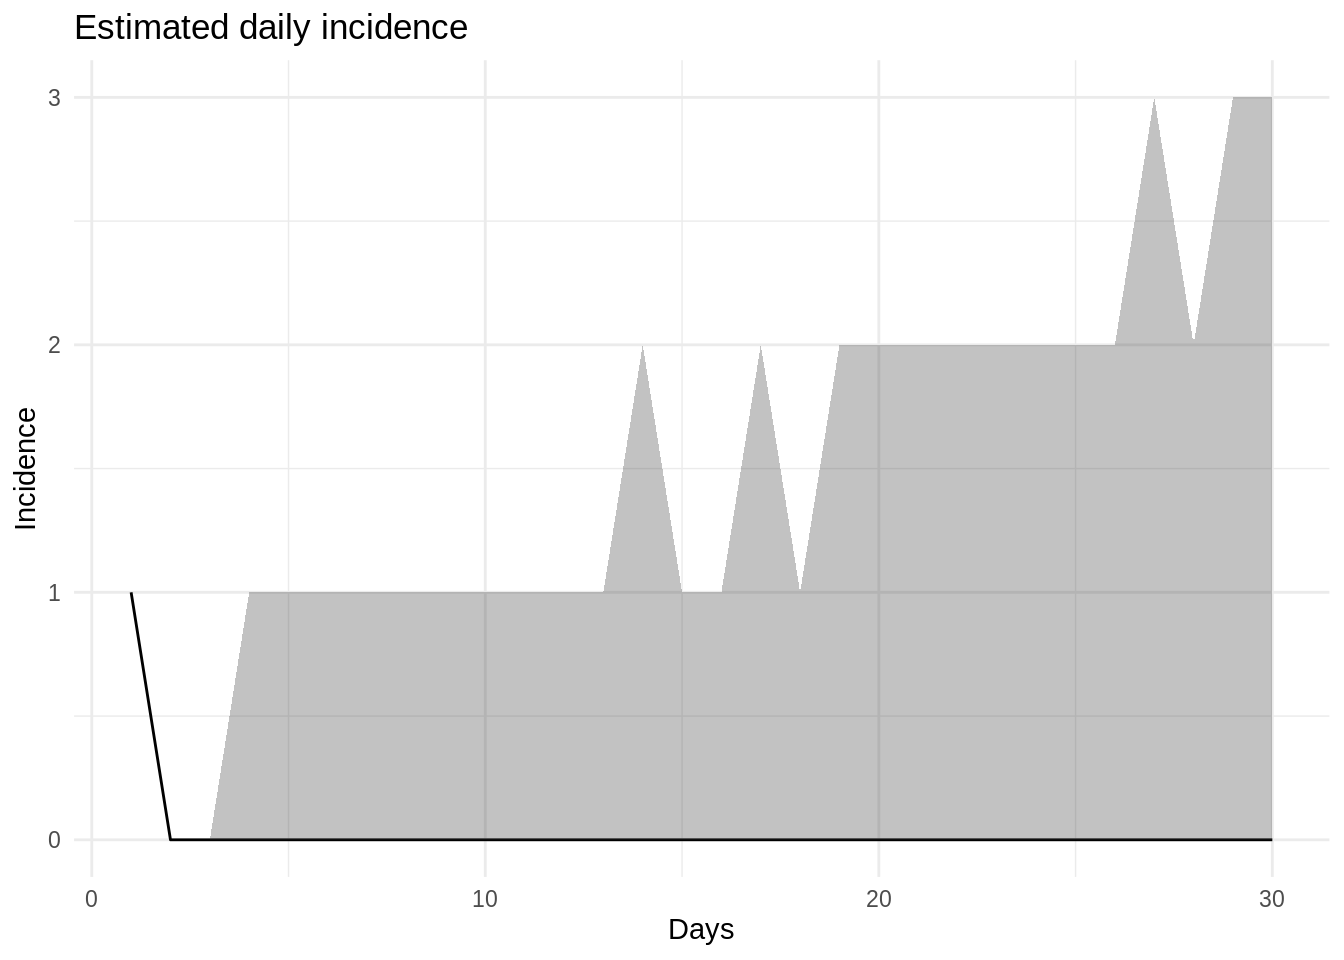
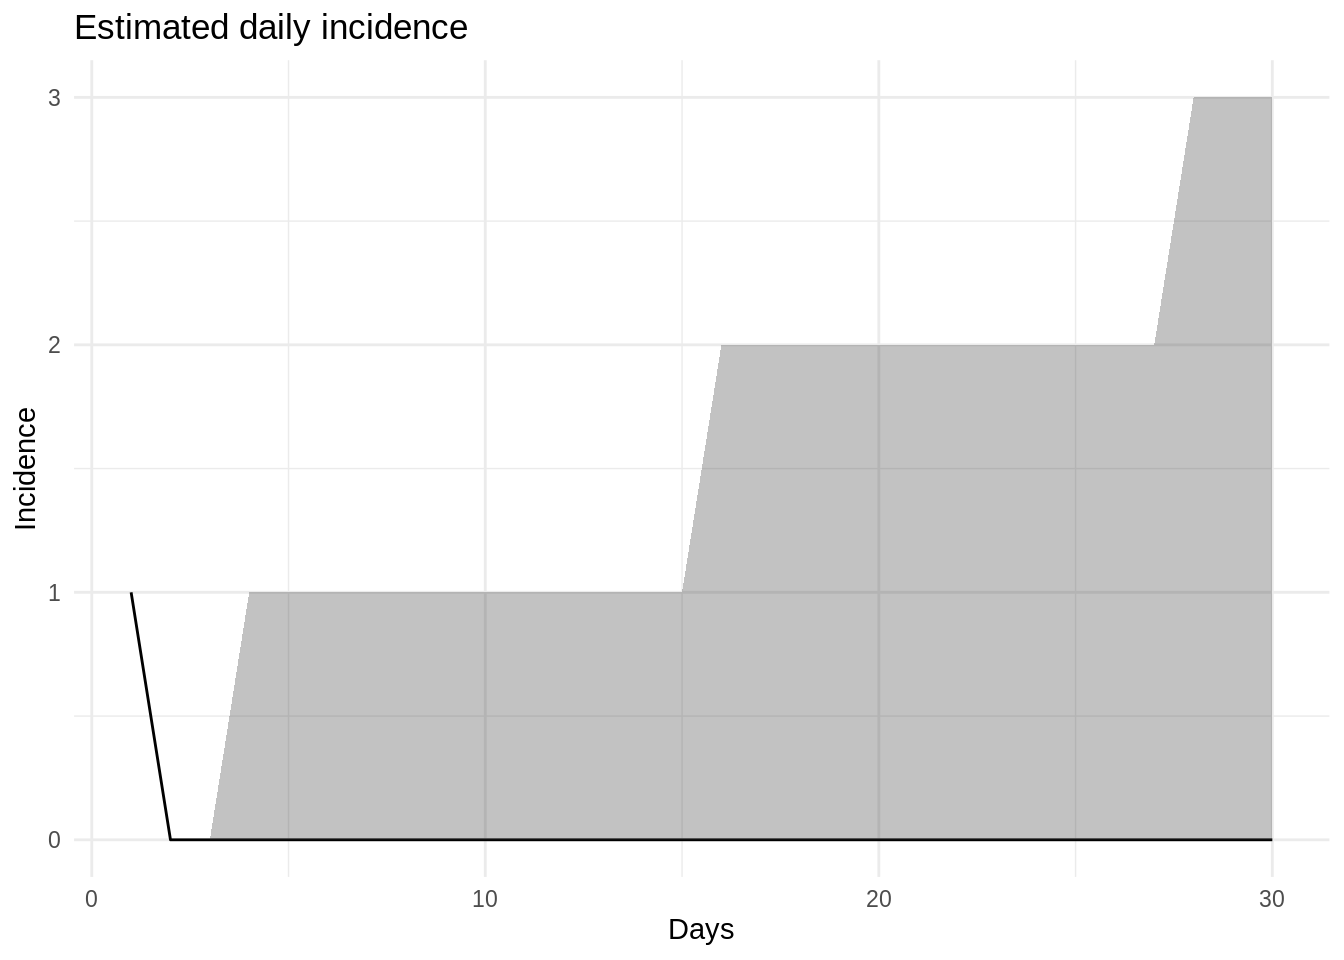
Deploy folkehelseinstituttet/spread to github.com/folkehelseinstituttet/spread.git:gh-pages

Changed region(s): [[0.4375, 0.3438, 0.625, 0.625], [0.8125, 0.0938, 0.9375, 0.375]]

diff --git a/articles/asymmetric_mobility_intro.html b/articles/asymmetric_mobility_intro.html
@@ -104,7 +104,7 @@
 <div class="sourceCode" id="cb1"><pre class="sourceCode r"><code class="sourceCode r"><a class="sourceLine" id="cb1-1" data-line-number="1"><span class="kw"><a href="https://rdrr.io/r/base/library.html">library</a></span>(spread)</a>
 <a class="sourceLine" id="cb1-2" data-line-number="2"><span class="co">#&gt; </span></a>
 <a class="sourceLine" id="cb1-3" data-line-number="3"><span class="co">#&gt; PACKAGE: spread</span></a>
-<a class="sourceLine" id="cb1-4" data-line-number="4"><span class="co">#&gt; Version: 2020.03.16 at 09:32</span></a>
+<a class="sourceLine" id="cb1-4" data-line-number="4"><span class="co">#&gt; Version: 2020.03.16 at 09:54</span></a>
 <a class="sourceLine" id="cb1-5" data-line-number="5"><span class="co">#&gt; </span></a>
 <a class="sourceLine" id="cb1-6" data-line-number="6"><span class="co">#&gt; Commuter model and C++ code developed by Solveig Engebretsen and Andreas Nygård Osnes</span></a>
 <a class="sourceLine" id="cb1-7" data-line-number="7"><span class="co">#&gt; Asymmetric mobility model and C++ code developed by Solveig Engebretsen</span></a>
@@ -153,31 +153,31 @@
 <p><code>c_*</code> variables represent the current status of all the people existing in that geographical location at that time point.</p>
 <div class="sourceCode" id="cb6"><pre class="sourceCode r"><code class="sourceCode r"><a class="sourceLine" id="cb6-1" data-line-number="1"><span class="kw"><a href="https://rdrr.io/r/base/print.html">print</a></span>(d)</a>
 <a class="sourceLine" id="cb6-2" data-line-number="2"><span class="co">#&gt;     location_code week day  time  b_S b_E b_I b_Ia b_R  c_S c_E c_I c_Ia c_R</span></a>
-<a class="sourceLine" id="cb6-3" data-line-number="3"><span class="co">#&gt;  1:             a    1   1 23:59  971  22  40    0  17  824  18  34    0  14</span></a>
-<a class="sourceLine" id="cb6-4" data-line-number="4"><span class="co">#&gt;  2:             a    1   2 23:59  952  26  40    0  32  660  23  27    0  20</span></a>
-<a class="sourceLine" id="cb6-5" data-line-number="5"><span class="co">#&gt;  3:             a    1   3 23:59  931  34  39    0  46  492  29  22    0  27</span></a>
-<a class="sourceLine" id="cb6-6" data-line-number="6"><span class="co">#&gt;  4:             a    1   4 23:59  907  33  50    0  60  335  18  27    0  30</span></a>
-<a class="sourceLine" id="cb6-7" data-line-number="7"><span class="co">#&gt;  5:             a    1   5 23:59  880  35  57    0  78  189  18  21    0  22</span></a>
-<a class="sourceLine" id="cb6-8" data-line-number="8"><span class="co">#&gt;  6:             b    1   1 23:59  997   3   0    0   0 1144   7   6    0   3</span></a>
-<a class="sourceLine" id="cb6-9" data-line-number="9"><span class="co">#&gt;  7:             b    1   2 23:59  994   3   2    0   1 1286   6  15    0  13</span></a>
-<a class="sourceLine" id="cb6-10" data-line-number="10"><span class="co">#&gt;  8:             b    1   3 23:59  988   7   4    0   1 1427  12  21    0  20</span></a>
-<a class="sourceLine" id="cb6-11" data-line-number="11"><span class="co">#&gt;  9:             b    1   4 23:59  981   7   9    0   3 1553  22  32    0  33</span></a>
-<a class="sourceLine" id="cb6-12" data-line-number="12"><span class="co">#&gt; 10:             b    1   5 23:59  968  15  10    0   7 1659  32  46    0  63</span></a>
+<a class="sourceLine" id="cb6-3" data-line-number="3"><span class="co">#&gt;  1:             a    1   1 23:59  977  18  41    0  14  832  17  32    0   9</span></a>
+<a class="sourceLine" id="cb6-4" data-line-number="4"><span class="co">#&gt;  2:             a    1   2 23:59  960  21  40    0  29  672  17  28    0  13</span></a>
+<a class="sourceLine" id="cb6-5" data-line-number="5"><span class="co">#&gt;  3:             a    1   3 23:59  939  23  46    0  42  505  20  26    0  19</span></a>
+<a class="sourceLine" id="cb6-6" data-line-number="6"><span class="co">#&gt;  4:             a    1   4 23:59  917  24  46    0  63  349  14  19    0  28</span></a>
+<a class="sourceLine" id="cb6-7" data-line-number="7"><span class="co">#&gt;  5:             a    1   5 23:59  891  32  52    0  75  200  11  19    0  20</span></a>
+<a class="sourceLine" id="cb6-8" data-line-number="8"><span class="co">#&gt;  6:             b    1   1 23:59  998   2   0    0   0 1143   3   9    0   5</span></a>
+<a class="sourceLine" id="cb6-9" data-line-number="9"><span class="co">#&gt;  7:             b    1   2 23:59  993   6   1    0   0 1281  10  13    0  16</span></a>
+<a class="sourceLine" id="cb6-10" data-line-number="10"><span class="co">#&gt;  8:             b    1   3 23:59  987   8   4    0   1 1421  11  24    0  24</span></a>
+<a class="sourceLine" id="cb6-11" data-line-number="11"><span class="co">#&gt;  9:             b    1   4 23:59  980  10   7    0   3 1548  20  34    0  38</span></a>
+<a class="sourceLine" id="cb6-12" data-line-number="12"><span class="co">#&gt; 10:             b    1   5 23:59  972  11  12    0   5 1663  32  45    0  60</span></a>
 <a class="sourceLine" id="cb6-13" data-line-number="13"><span class="co">#&gt; 11:             c    1   1 23:59 2000   0   0    0   0 2000   0   0    0   0</span></a>
-<a class="sourceLine" id="cb6-14" data-line-number="14"><span class="co">#&gt; 12:             c    1   2 23:59 2000   0   0    0   0 2000   0   0    0   0</span></a>
-<a class="sourceLine" id="cb6-15" data-line-number="15"><span class="co">#&gt; 13:             c    1   3 23:59 2000   0   0    0   0 2000   0   0    0   0</span></a>
-<a class="sourceLine" id="cb6-16" data-line-number="16"><span class="co">#&gt; 14:             c    1   4 23:59 1999   1   0    0   0 1999   1   0    0   0</span></a>
-<a class="sourceLine" id="cb6-17" data-line-number="17"><span class="co">#&gt; 15:             c    1   5 23:59 1998   2   0    0   0 1998   2   0    0   0</span></a>
+<a class="sourceLine" id="cb6-14" data-line-number="14"><span class="co">#&gt; 12:             c    1   2 23:59 1999   0   1    0   0 1999   0   1    0   0</span></a>
+<a class="sourceLine" id="cb6-15" data-line-number="15"><span class="co">#&gt; 13:             c    1   3 23:59 1999   0   1    0   0 1999   0   1    0   0</span></a>
+<a class="sourceLine" id="cb6-16" data-line-number="16"><span class="co">#&gt; 14:             c    1   4 23:59 1996   2   2    0   0 1996   2   2    0   0</span></a>
+<a class="sourceLine" id="cb6-17" data-line-number="17"><span class="co">#&gt; 15:             c    1   5 23:59 1994   4   1    0   1 1994   4   1    0   1</span></a>
 <a class="sourceLine" id="cb6-18" data-line-number="18"><span class="co">#&gt;     c_incidence</span></a>
-<a class="sourceLine" id="cb6-19" data-line-number="19"><span class="co">#&gt;  1:           2</span></a>
-<a class="sourceLine" id="cb6-20" data-line-number="20"><span class="co">#&gt;  2:           0</span></a>
+<a class="sourceLine" id="cb6-19" data-line-number="19"><span class="co">#&gt;  1:           1</span></a>
+<a class="sourceLine" id="cb6-20" data-line-number="20"><span class="co">#&gt;  2:           3</span></a>
 <a class="sourceLine" id="cb6-21" data-line-number="21"><span class="co">#&gt;  3:           2</span></a>
 <a class="sourceLine" id="cb6-22" data-line-number="22"><span class="co">#&gt;  4:           1</span></a>
-<a class="sourceLine" id="cb6-23" data-line-number="23"><span class="co">#&gt;  5:           1</span></a>
+<a class="sourceLine" id="cb6-23" data-line-number="23"><span class="co">#&gt;  5:           0</span></a>
 <a class="sourceLine" id="cb6-24" data-line-number="24"><span class="co">#&gt;  6:           0</span></a>
-<a class="sourceLine" id="cb6-25" data-line-number="25"><span class="co">#&gt;  7:           2</span></a>
-<a class="sourceLine" id="cb6-26" data-line-number="26"><span class="co">#&gt;  8:           2</span></a>
-<a class="sourceLine" id="cb6-27" data-line-number="27"><span class="co">#&gt;  9:           7</span></a>
+<a class="sourceLine" id="cb6-25" data-line-number="25"><span class="co">#&gt;  7:           0</span></a>
+<a class="sourceLine" id="cb6-26" data-line-number="26"><span class="co">#&gt;  8:           3</span></a>
+<a class="sourceLine" id="cb6-27" data-line-number="27"><span class="co">#&gt;  9:           3</span></a>
 <a class="sourceLine" id="cb6-28" data-line-number="28"><span class="co">#&gt; 10:           7</span></a>
 <a class="sourceLine" id="cb6-29" data-line-number="29"><span class="co">#&gt; 11:           0</span></a>
 <a class="sourceLine" id="cb6-30" data-line-number="30"><span class="co">#&gt; 12:           0</span></a>

diff --git a/reference/asymmetric_mobility_se1e2iiar.html b/reference/asymmetric_mobility_se1e2iiar.html
@@ -211,36 +211,36 @@
   <span class='kw'>asymptomatic_relative_infectiousness</span> <span class='kw'>=</span> <span class='fl'>0</span>,
   <span class='kw'>N</span> <span class='kw'>=</span> <span class='fl'>1</span>
 )</div><div class='output co'>#&gt;     location_code week day  time  b_S b_E1 b_E2 b_I b_Ia b_R  c_S c_E1 c_E2 c_I
-#&gt;  1:             a    1   1 23:59  977   19    2  45    0   7  827   19    2  37
-#&gt;  2:             a    1   2 23:59  944   34   12  47    0  13  650   28    9  36
-#&gt;  3:             a    1   3 23:59  923   42   18  42    0  25  499   22   11  26
-#&gt;  4:             a    1   4 23:59  886   57   25  52    0  30  333   34   15  19
-#&gt;  5:             a    1   5 23:59  840   68   47  56    0  39  190   20   16  19
-#&gt;  6:             b    1   1 23:59  998    2    0   0    0   0 1148    2    0   8
-#&gt;  7:             b    1   2 23:59  992    7    1   0    0   0 1286   13    4  11
-#&gt;  8:             b    1   3 23:59  980   11    5   3    0   1 1404   31   12  19
-#&gt;  9:             b    1   4 23:59  971   16    8   3    0   2 1524   39   18  36
-#&gt; 10:             b    1   5 23:59  952   24   14   8    0   2 1602   72   45  45
-#&gt; 11:             c    1   1 23:59 1999    1    0   0    0   0 1999    1    0   0
-#&gt; 12:             c    1   2 23:59 1999    1    0   0    0   0 1999    1    0   0
-#&gt; 13:             c    1   3 23:59 1998    2    0   0    0   0 1998    2    0   0
-#&gt; 14:             c    1   4 23:59 1996    3    1   0    0   0 1996    3    1   0
-#&gt; 15:             c    1   5 23:59 1994    3    3   0    0   0 1994    3    3   0
+#&gt;  1:             a    1   1 23:59  983   13    3  41    0  10  836   11    2  32
+#&gt;  2:             a    1   2 23:59  963   20   11  34    0  22  666   14   10  24
+#&gt;  3:             a    1   3 23:59  944   28   15  33    0  30  505   19   10  24
+#&gt;  4:             a    1   4 23:59  916   35   25  38    0  36  347   25   14  13
+#&gt;  5:             a    1   5 23:59  881   41   39  42    0  47  202   17   12  11
+#&gt;  6:             b    1   1 23:59  996    4    0   0    0   0 1143    6    1   9
+#&gt;  7:             b    1   2 23:59  991    8    1   0    0   0 1288   14    2  10
+#&gt;  8:             b    1   3 23:59  980   13    4   3    0   0 1419   22    9  12
+#&gt;  9:             b    1   4 23:59  970   19    8   3    0   0 1539   29   19  28
+#&gt; 10:             b    1   5 23:59  952   27   14   6    0   1 1631   51   41  37
+#&gt; 11:             c    1   1 23:59 2000    0    0   0    0   0 2000    0    0   0
+#&gt; 12:             c    1   2 23:59 2000    0    0   0    0   0 2000    0    0   0
+#&gt; 13:             c    1   3 23:59 1999    1    0   0    0   0 1999    1    0   0
+#&gt; 14:             c    1   4 23:59 1997    2    0   1    0   0 1997    2    0   1
+#&gt; 15:             c    1   5 23:59 1996    2    1   1    0   0 1996    2    1   1
 #&gt;     c_Ia c_R c_incidence
-#&gt;  1:    0   5           2
-#&gt;  2:    0   7           7
-#&gt;  3:    0  12           5
-#&gt;  4:    0   9           7
-#&gt;  5:    0   5           9
-#&gt;  6:    0   2           0
+#&gt;  1:    0   9           1
+#&gt;  2:    0  16           4
+#&gt;  3:    0  12           6
+#&gt;  4:    0  11           6
+#&gt;  5:    0   8           9
+#&gt;  6:    0   1           0
 #&gt;  7:    0   6           1
-#&gt;  8:    0  14           6
-#&gt;  9:    0  23           9
-#&gt; 10:    0  36           9
+#&gt;  8:    0  18           4
+#&gt;  9:    0  25           5
+#&gt; 10:    0  40          10
 #&gt; 11:    0   0           0
 #&gt; 12:    0   0           0
 #&gt; 13:    0   0           0
-#&gt; 14:    0   0           0
+#&gt; 14:    0   0           1
 #&gt; 15:    0   0           0</div></pre>
   </div>
   <div class="col-md-3 hidden-xs hidden-sm" id="sidebar">

diff --git a/reference/asymmetric_mobility.html b/reference/asymmetric_mobility.html
@@ -199,36 +199,36 @@
   <span class='kw'>asymptomatic_relative_infectiousness</span> <span class='kw'>=</span> <span class='fl'>0</span>,
   <span class='kw'>N</span> <span class='kw'>=</span> <span class='fl'>1</span>
 )</div><div class='output co'>#&gt;     location_code week day  time  b_S b_E b_I b_Ia b_R  c_S c_E c_I c_Ia c_R
-#&gt;  1:             a    1   1 23:59  973  24  43    0  10  824  24  34    0   8
-#&gt;  2:             a    1   2 23:59  954  28  41    0  27  660  26  26    0  18
-#&gt;  3:             a    1   3 23:59  928  32  51    0  39  492  24  34    0  20
-#&gt;  4:             a    1   4 23:59  900  35  56    0  59  345  21  29    0  15
-#&gt;  5:             a    1   5 23:59  871  40  55    0  84  196  18  20    0  16
-#&gt;  6:             b    1   1 23:59  997   2   1    0   0 1146   2  10    0   2
-#&gt;  7:             b    1   2 23:59  994   5   1    0   0 1288   7  16    0   9
-#&gt;  8:             b    1   3 23:59  978  14   7    0   1 1414  22  24    0  20
-#&gt;  9:             b    1   4 23:59  970  12  15    0   3 1525  26  42    0  47
-#&gt; 10:             b    1   5 23:59  945  26  21    0   8 1620  48  56    0  76
+#&gt;  1:             a    1   1 23:59  972  23  44    0  11  824  22  35    0   9
+#&gt;  2:             a    1   2 23:59  949  34  44    0  23  664  23  27    0  16
+#&gt;  3:             a    1   3 23:59  926  27  60    0  37  502  16  32    0  20
+#&gt;  4:             a    1   4 23:59  888  48  54    0  60  342  19  23    0  26
+#&gt;  5:             a    1   5 23:59  856  51  66    0  77  198  14  13    0  25
+#&gt;  6:             b    1   1 23:59  997   2   1    0   0 1145   3  10    0   2
+#&gt;  7:             b    1   2 23:59  994   4   1    0   1 1279  15  18    0   8
+#&gt;  8:             b    1   3 23:59  976  14   7    0   3 1400  25  35    0  20
+#&gt;  9:             b    1   4 23:59  956  25  13    0   6 1502  54  44    0  40
+#&gt; 10:             b    1   5 23:59  940  31  19    0  10 1598  68  72    0  62
 #&gt; 11:             c    1   1 23:59 2000   0   0    0   0 2000   0   0    0   0
-#&gt; 12:             c    1   2 23:59 2000   0   0    0   0 2000   0   0    0   0
-#&gt; 13:             c    1   3 23:59 1998   1   1    0   0 1998   1   1    0   0
-#&gt; 14:             c    1   4 23:59 1995   1   3    0   1 1995   1   3    0   1
-#&gt; 15:             c    1   5 23:59 1992   3   4    0   1 1992   3   4    0   1
+#&gt; 12:             c    1   2 23:59 1999   1   0    0   0 1999   1   0    0   0
+#&gt; 13:             c    1   3 23:59 1999   1   0    0   0 1999   1   0    0   0
+#&gt; 14:             c    1   4 23:59 1999   1   0    0   0 1999   1   0    0   0
+#&gt; 15:             c    1   5 23:59 1999   1   0    0   0 1999   1   0    0   0
 #&gt;     c_incidence
-#&gt;  1:           0
-#&gt;  2:           4
-#&gt;  3:           4
-#&gt;  4:           0
+#&gt;  1:           2
+#&gt;  2:           1
+#&gt;  3:           8
+#&gt;  4:           2
 #&gt;  5:           2
 #&gt;  6:           0
 #&gt;  7:           1
-#&gt;  8:           3
+#&gt;  8:           6
 #&gt;  9:           2
-#&gt; 10:           2
+#&gt; 10:           8
 #&gt; 11:           0
 #&gt; 12:           0
 #&gt; 13:           0
-#&gt; 14:           1
+#&gt; 14:           0
 #&gt; 15:           0</div></pre>
   </div>
   <div class="col-md-3 hidden-xs hidden-sm" id="sidebar">

diff --git a/articles/branching_process.html b/articles/branching_process.html
@@ -139,7 +139,7 @@
 <a class="sourceLine" id="cb4-2" data-line-number="2"><span class="kw"><a href="https://rdrr.io/r/base/print.html">print</a></span>(<span class="kw"><a href="https://rdrr.io/r/stats/median.html">median</a></span>(summary<span class="op">$</span>cumulative[<span class="dv">30</span>,]))</a>
 <a class="sourceLine" id="cb4-3" data-line-number="3"><span class="co">#&gt; [1] 5</span></a>
 <a class="sourceLine" id="cb4-4" data-line-number="4"><span class="kw"><a href="https://rdrr.io/r/base/print.html">print</a></span>(summary<span class="op">$</span>p_no_spread)</a>
-<a class="sourceLine" id="cb4-5" data-line-number="5"><span class="co">#&gt; [1] 0.27</span></a></code></pre></div>
+<a class="sourceLine" id="cb4-5" data-line-number="5"><span class="co">#&gt; [1] 0.273</span></a></code></pre></div>
 <p>The median number of cases is around 50, with a probability of no spread is around 6%.</p>
 </div>
 <div id="estimating-parameters-via-approximate-bayesian-computation-abc" class="section level1">
@@ -171,7 +171,7 @@
 <a class="sourceLine" id="cb5-23" data-line-number="23">  )</a>
 <a class="sourceLine" id="cb5-24" data-line-number="24"><span class="kw"><a href="https://rdrr.io/r/base/print.html">print</a></span>(HDInterval<span class="op">::</span><span class="kw"><a href="https://rdrr.io/pkg/HDInterval/man/hdi.html">hdi</a></span>(r<span class="op">$</span>R0))</a>
 <a class="sourceLine" id="cb5-25" data-line-number="25"><span class="co">#&gt; lower upper </span></a>
-<a class="sourceLine" id="cb5-26" data-line-number="26"><span class="co">#&gt;  2.05  4.40 </span></a>
+<a class="sourceLine" id="cb5-26" data-line-number="26"><span class="co">#&gt;  2.05  4.35 </span></a>
 <a class="sourceLine" id="cb5-27" data-line-number="27"><span class="co">#&gt; attr(,"credMass")</span></a>
 <a class="sourceLine" id="cb5-28" data-line-number="28"><span class="co">#&gt; [1] 0.95</span></a></code></pre></div>
 </div>
